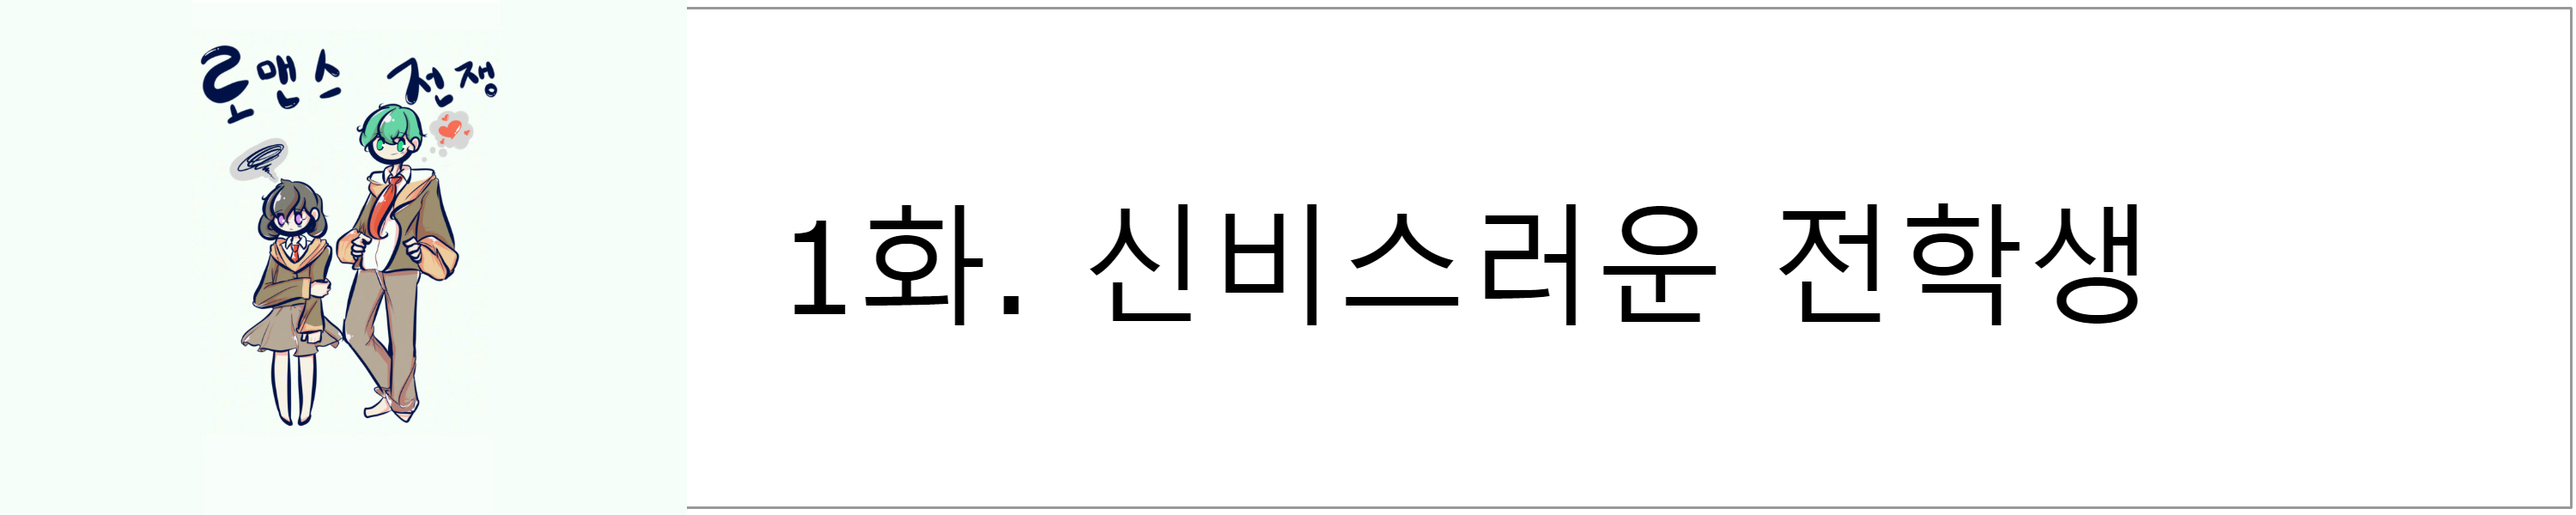
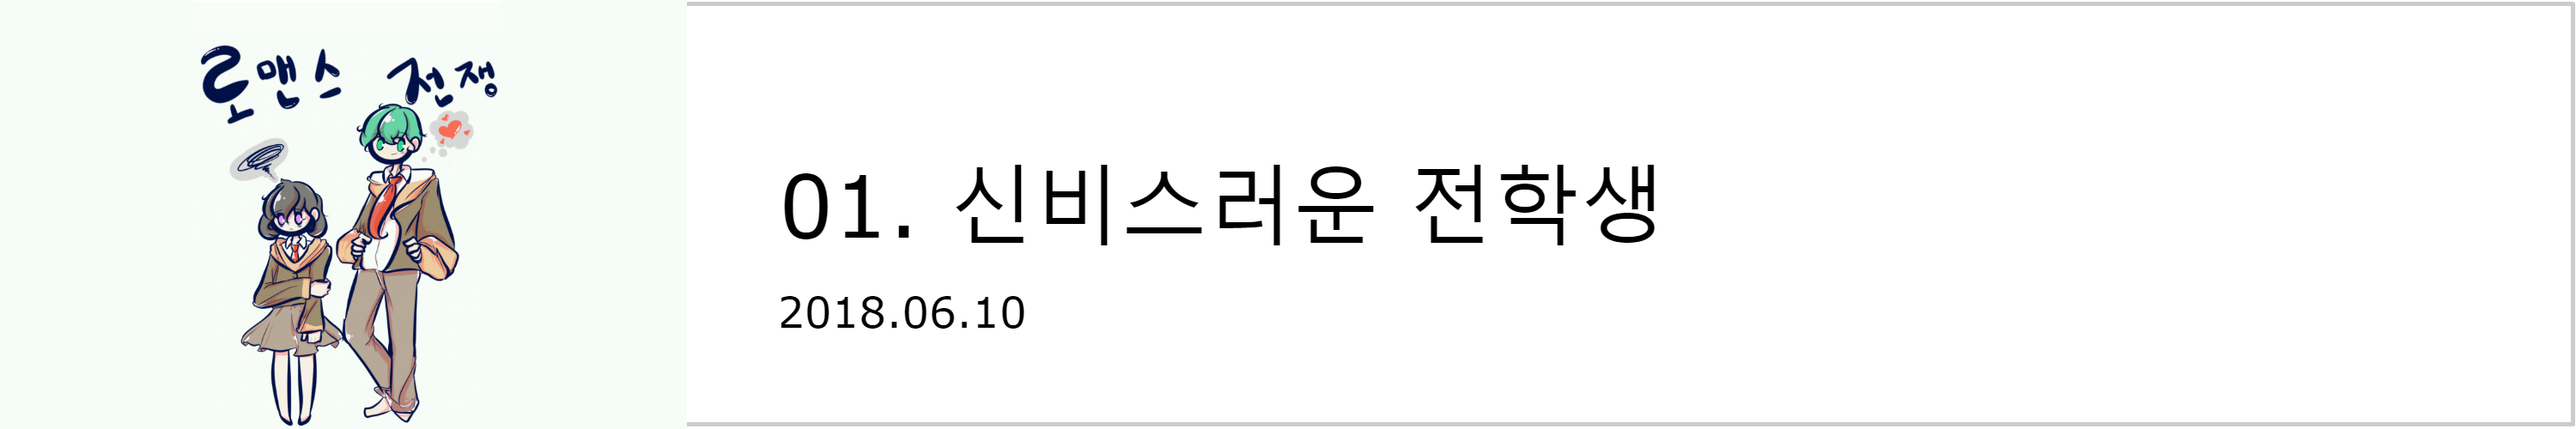
1.9version

diff --git a/로맨스전쟁1.html b/로맨스전쟁1.html
@@ -12,15 +12,26 @@
 <body oncontextmenu="return false" onselectstart="return false" ondragstart="return false">
 <center>
 <!-- 로고 -->
-  <a href="홈.html"><img src="logo.jpg" width="100%"></a><br>
+  <a href="홈.html"><img src="logo.jpg" width="100%"></a><br><hr width="100%">
+</center>
+<!-- 목록 -->
+  <p style="font-size:25px">
+    &nbsp;&nbsp;&nbsp;&nbsp;&nbsp;&nbsp;&nbsp;&nbsp;&nbsp;&nbsp;&nbsp;&nbsp;&nbsp;&nbsp;&nbsp;&nbsp;&nbsp;&nbsp;<a href="로맨스전쟁.html" style="text-decoration:none"><font color="black"><strong>로맨스 전쟁</strong></a>
+    &nbsp;&nbsp;&nbsp;&nbsp;&nbsp;&nbsp;&nbsp;&nbsp;&nbsp;&nbsp;&nbsp;&nbsp;&nbsp;&nbsp;&nbsp;&nbsp;&nbsp;&nbsp;&nbsp;&nbsp;&nbsp;&nbsp;&nbsp;&nbsp;&nbsp;&nbsp;&nbsp;&nbsp;
+  <img src="전편보기(없을때).jpg" width="40px" align="center"></a>
+    &nbsp;&nbsp;01. 신비스러운 전학생&nbsp;&nbsp;
+  <img src="다음편보기(없을때).jpg" width="40px" align="center"></p><hr width="80%">
 <!-- 내용 -->
-  <p style="font-size:35px">1화. 신비스러운 전학생</p><br>
-  <p style="font-size:20px"><font color="gray">2018.06.10</font></p><br><hr width=100%><br>
+<center>
+  <p style="font-size:35px">01. 신비스러운 전학생</p><br>
+  <p style="font-size:20px"><font color="gray">2018.06.10</font></p><br><hr width=50%><br>
       <p style="font-size:20px">안녕하세요 여러분 오늘은 전학생이 왔습니다"</p>
 <br>
-      <p style="font-size:20px">전학 왔다는 친구는 오묘한 눈동자 색을 가진 남학생이었다. 눈동자 색이 민트색 같기도 하고</p>
+      <p style="font-size:20px">전학 왔다는 친구는 오묘한 눈동자 색을 가진 남학생이었다.</p>
 <br>
-      <p style="font-size:20px">노란색 같기도 하고.. 그런 색은 태어나서 처음 봤다.</p>
+      <p style="font-size:20px">눈동자 색이 민트색 같기도 하고 노란색 같기도 하고.. </p>
+<br>
+      <p style="font-size:20px">그런 색은 태어나서 처음 봤다.</p>
 <br>
       <p style="font-size:20px">"태서라고 해"</p>
 <br>
@@ -37,7 +48,9 @@
 <br>
       <p style="font-size:20px">그리고 조잘조잘 떠들어 댔다. 우리한테 꼬리 치지 말란 말을 남기고서.</p>
 <br>
-      <p style="font-size:20px">그 애는 눈을 마주치고서도 그 느낌을 느끼지 못했던 것일까. 나는 무척 궁금했지만 물어보면 화낼 것이 뻔했기에 가만히 있었다.</p>
+      <p style="font-size:20px">그 애는 눈을 마주치고서도 그 느낌을 느끼지 못했던 것 일까.</p>
+<br>
+      <p style="font-size:20px">나는 무척 궁금했지만 물어보면 화낼 것이 뻔했기에 가만히 있었다.</p>
 <br>
 <br>
       <p style="font-size:20px">집에 갈 때는 혼자였다. 친구가 없었으니깐.</p>
@@ -68,12 +81,16 @@
 <br>
       <p style="font-size:20px">오늘 아침도 가기 싫은 학교를 가려 나선다.</p>
 <br>
-      <p style="font-size:20px">멀리서 태서가 손을 흔든다. 이번에는 공포라기 보단 지끈 거려 오는 머리 때문에 그 애를 피했다.</p>
+      <p style="font-size:20px">멀리서 태서가 손을 흔든다.</p>
+<br>
+      <p style="font-size:20px">이번에는 공포라기 보단 지끈 거려 오는 머리 때문에 그 애를 피했다.</p>
 <br>
 <br>
       <p style="font-size:20px">사물함 속에서 교과서를 꺼내려던 손이 멈추었다.</p>
 <br>
-      <p style="font-size:20px">검은색으로 반짝이는 종이로 싸인 상자를 발견했기 때문이다. 조심스럽게 종이를 뜯어보니 메모지가 한 장 붙어있는 작은 상자가 있었다.</p>
+      <p style="font-size:20px">검은색으로 반짝이는 종이로 싸인 상자를 발견했기 때문이다.</p>
+<br>
+      <p style="font-size:20px">조심스럽게 종이를 뜯어보니 메모지가 한 장 붙어있는 작은 상자가 있었다.</p>
 <br>
       <p style="font-size:20px">'예림이에게!'</p>
 <br>

diff --git a/로맨스전쟁.html b/로맨스전쟁.html
@@ -40,4 +40,4 @@
     <!-- 목록 -->
     <br><br>
     <p style="font-size:35px">&nbsp;&nbsp;&nbsp;&nbsp;&nbsp;&nbsp;&nbsp;&nbsp;&nbsp;&nbsp;&nbsp;&nbsp;&nbsp;&nbsp;&nbsp;&nbsp;&nbsp;작품회차 (1)</p><br>
-    &nbsp;&nbsp;&nbsp;&nbsp;&nbsp;&nbsp;&nbsp;&nbsp;&nbsp;&nbsp;&nbsp;&nbsp;&nbsp;&nbsp;&nbsp;&nbsp;&nbsp;&nbsp;&nbsp;&nbsp;&nbsp;&nbsp;&nbsp;&nbsp;&nbsp;&nbsp;&nbsp;&nbsp;&nbsp;&nbsp;&nbsp;&nbsp;&nbsp;&nbsp;&nbsp;&nbsp;<a href="로맨스전쟁1.html"><img src="로맨스전쟁1.jpg" width="40%"></a>
+    &nbsp;&nbsp;&nbsp;&nbsp;&nbsp;&nbsp;&nbsp;&nbsp;&nbsp;&nbsp;&nbsp;&nbsp;&nbsp;&nbsp;&nbsp;&nbsp;&nbsp;&nbsp;&nbsp;&nbsp;&nbsp;&nbsp;&nbsp;&nbsp;&nbsp;&nbsp;&nbsp;&nbsp;&nbsp;&nbsp;&nbsp;&nbsp;&nbsp;&nbsp;&nbsp;&nbsp;&nbsp;<a href="로맨스전쟁1.html"><img src="로맨스전쟁1.jpg" width="60%"></a>
